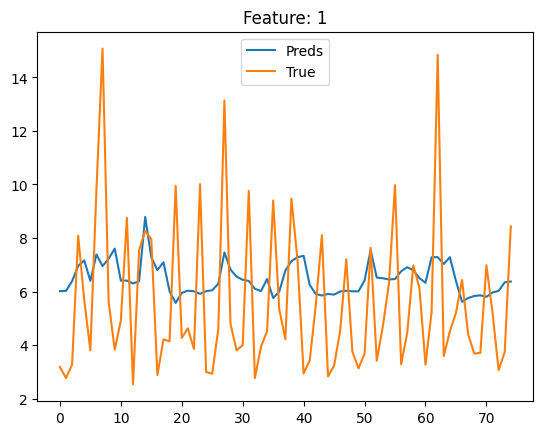
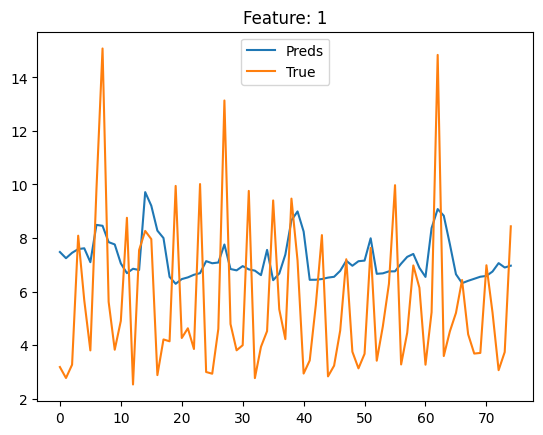
..

Changed region(s): [[0.0884, 0.4483, 0.9429, 0.6874], [0.7956, 0.4782, 0.825, 0.5379], [0.5304, 0.4782, 0.5599, 0.5379]]

diff --git a/train.py b/train.py
@@ -18,7 +18,12 @@ def evaluate(model, loader, criterion):
 	with torch.no_grad():
 		for x, y in loader:
 			y_hat = model(x)
-			loss = criterion(y_hat, y.squeeze(1))
+			if y_hat.ndim == 2:
+				y_hat = y_hat.squeeze(1)
+			if y.ndim == 2:
+				y = y.squeeze(1)
+
+			loss = criterion(y_hat, y)
 			losses.append(loss.item())
 
 	return np.sqrt(np.array(losses).mean())
@@ -41,8 +46,15 @@ def predict(model, loader, scaler, plot_name=''):
 	#	preds = model(x).detach().cpu().numpy().squeeze()
 
 	rmse = np.sqrt(mean_squared_error(true_y, preds))
-	preds = scaler.inverse_transform(preds)
-	true_y = scaler.inverse_transform(true_y)
+	if preds.shape[1] == 1:
+		scaler_input = np.zeros((x.shape[0], x.shape[2]))
+		scaler_input[:, 0] = preds
+		preds = scaler.inverse_transform(scaler_input)[:, [0]]
+		scaler_input[:, 0] = true_y
+		true_y = scaler.inverse_transform(scaler_input)[:, 0]
+	else:
+		preds = scaler.inverse_transform(preds)
+		true_y = scaler.inverse_transform(true_y)
 
 	# Plot preds and true
 	for i in range(preds.shape[1]):
@@ -152,7 +164,11 @@ if __name__ == '__main__':
 		for x, y in train_loader:
 			optimizer.zero_grad()
 			y_hat = model(x)
-			loss = torch.sqrt(criterion(y_hat, y.squeeze(1)))
+			if y_hat.ndim == 2:
+				y_hat = y_hat.squeeze(1)
+			if y.ndim == 2:
+				y = y.squeeze(1)
+			loss = torch.sqrt(criterion(y_hat, y))
 			loss.backward()
 			optimizer.step()
 

diff --git a/utils.py b/utils.py
@@ -44,6 +44,7 @@ def process_gas_sensor_data(window_size=50, horizon=1, test_size=0.2, target_col
 
 	print(values.min(0), values.max(0))
 	scaler = MinMaxScaler()
+	# target_scaler = MinMaxScaler()
 	values = scaler.fit_transform(values)
 	print(values.min(0), values.max(0))
 
@@ -56,6 +57,7 @@ def process_gas_sensor_data(window_size=50, horizon=1, test_size=0.2, target_col
 
 		if target_col is not None:
 			y_i = values[window_end:horizon_end, target_col]
+
 		else:
 			y_i = values[window_end:horizon_end, :]
 
